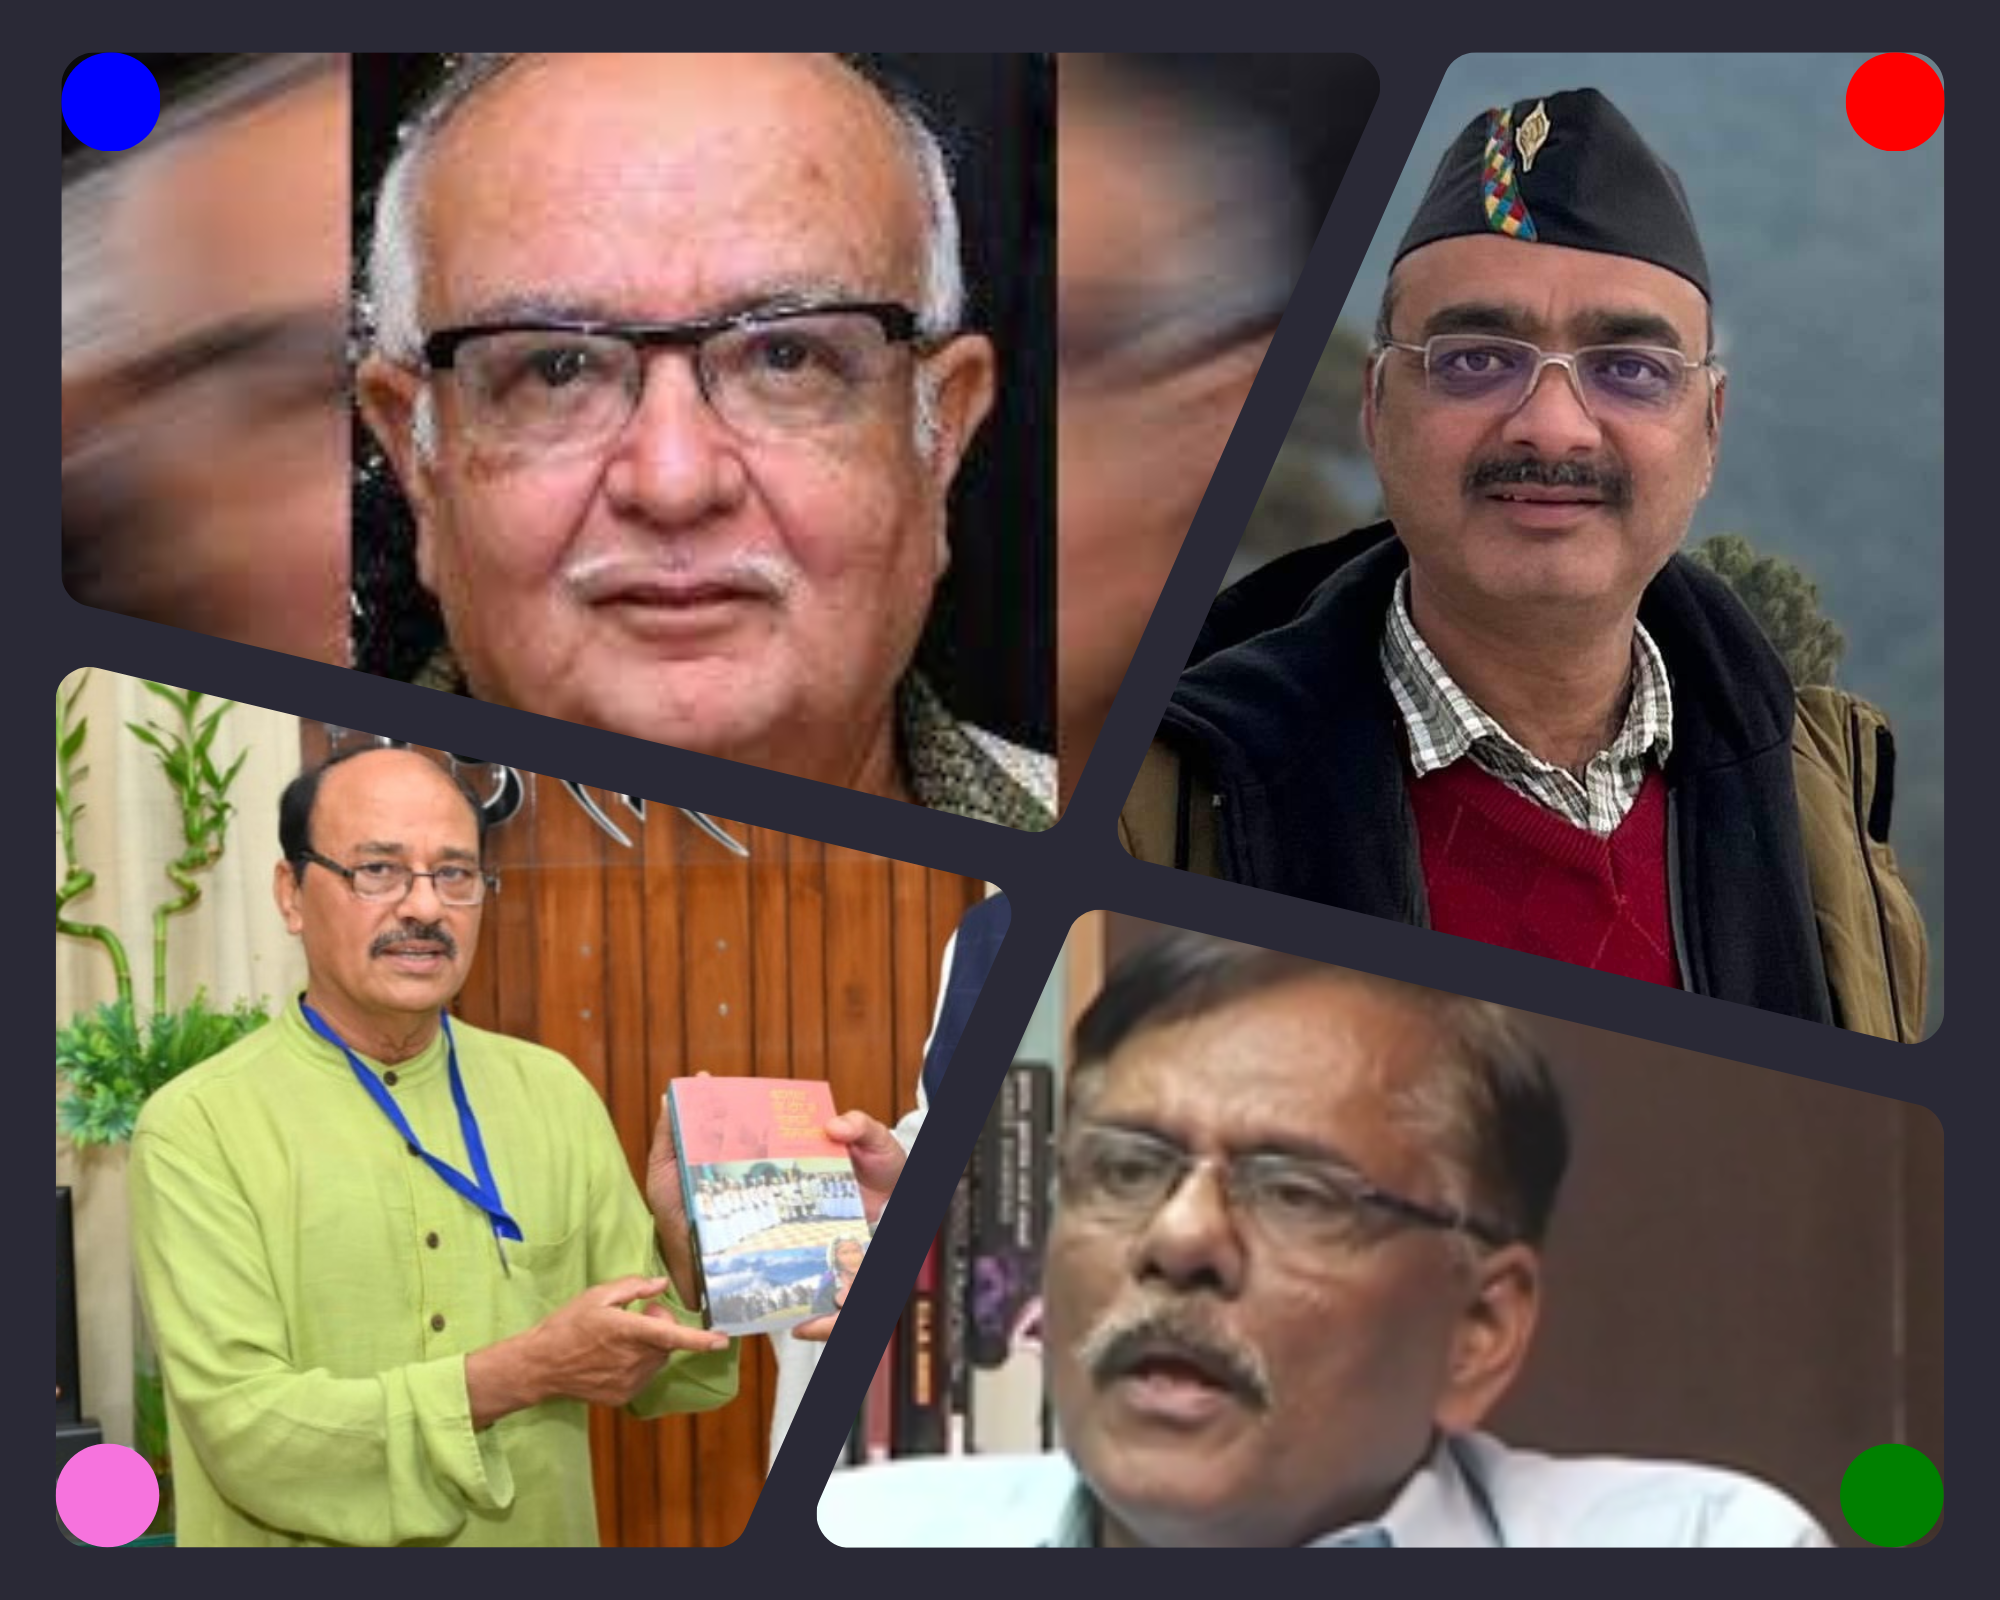
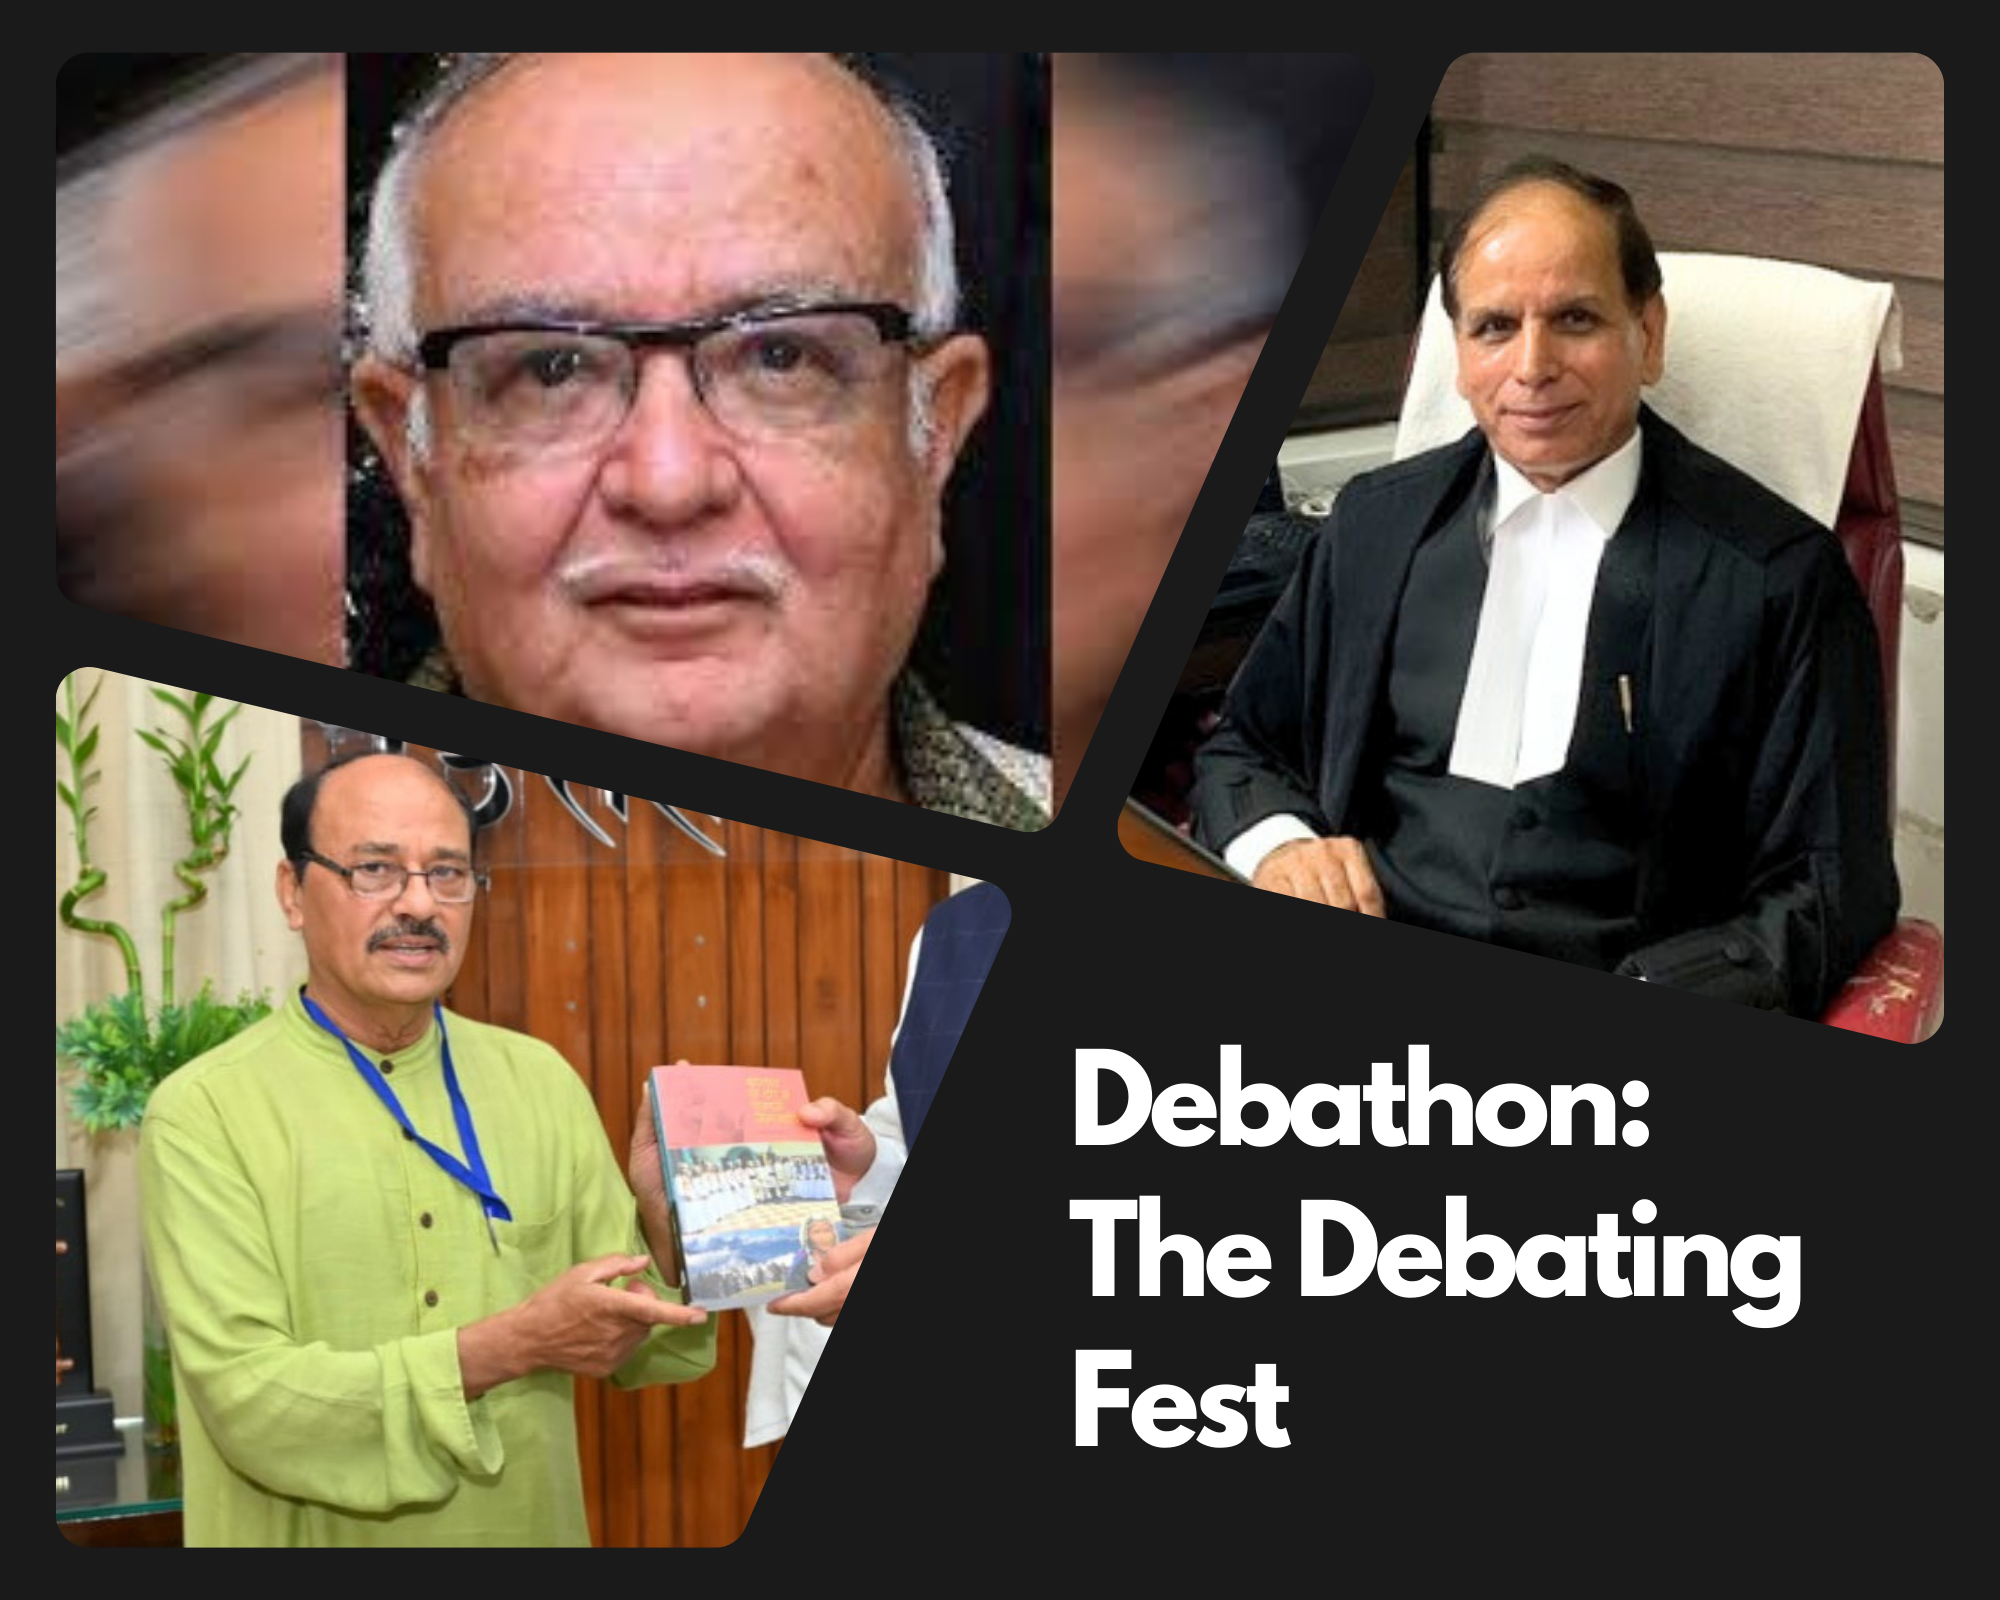
changes made

diff --git a/index.html b/index.html
@@ -440,7 +440,7 @@ https://templatemo.com/tm-575-leadership-event
                                 aria-labelledby="nav-DayOne-tab" >
                                 <div class="row border-bottom pb-5 mb-5">
                                     <div class="col-lg-4 col-12">
-                                        <img src="images/ns.png"
+                                        <img src="images/gs.jpeg"
                                             class="schedule-image img-fluid" alt="">
                                     </div>
 
@@ -448,9 +448,7 @@ https://templatemo.com/tm-575-leadership-event
 
                                         <h4 class="mb-2">Beyond the Bookshelf</h4>
 
-                                        <p>Dive into literary discourse with Sahitya Academy Awardee NASIRA SHARMA. Unmask narratives, dissect plots, and celebrate
-                                            the art of storytelling at our book discussion event. Join the conversation,
-                                            where every page holds a universe of ideas waiting to be explored.</p>
+                                        <p>Embark on a captivating journey through the realm of literature with the esteemed journalist and author, <b>Mrs. Geeta Shree</b> at our book discussion event, "Beyond the Bookshelf". Unveil the layers of narratives, celebrate the art of storytelling and immerse yourself in a riveting conversation, where each page unfolds a universe of ideas waiting to be explored. Join us in celebrating the magic that lies within the pages.</p>
 
                                         <div class="d-flex align-items-center mt-4">
                                             
@@ -507,7 +505,7 @@ https://templatemo.com/tm-575-leadership-event
                                     </div>
 
                                     <div class="col-lg-8 col-12 mt-3 mt-lg-0">
-                                        <h4 class="mb-2">Fast Facts Frenzy (KBC Theme)</h4>
+                                        <h4 class="mb-2">Fast Facts Frenzy (KBC Theme - Carsh Prize Rs.5000)</h4>
 
                                         <p>Experience your adrenaline boost through the roof as our anchors present
                                             rapid-fire questions. Only the quickest and most astute participants will
@@ -549,9 +547,9 @@ https://templatemo.com/tm-575-leadership-event
                                             exchange!.
                                         <br>Re-thinking identities and Re-defining growth and development. A Debate on land laws in Uttarakhand.
                                         <br>- <b style="color: blue;">Mr. Indu Kumar Pandey</b>, Former Chief Secretary of Uttarakhand and esteemed ex-IAS officer. <br>
-                                        - <b style="color: green;">Mr. Vibhuti Narain Rai</b>, Former DGP of Uttar Pradesh and distinguished ex-IPS officer. <br>
+                                        - <b style="color: red;">Mr. B P Nautiyal</b>, Senior Advocate of Uttarakhand High Court. <br>
                                         - <b style="color: magenta;">Mr. Jay Singh Rawat</b>, a seasoned journalist with over 40 years of experience. <br>
-                                        - <b style="color: red;">Mr. Ajay Dhoundiyal</b>, an accomplished journalist with over 20 years of experience in print media. <br>
+                                       
                                     </p>
 
                                         <div class="d-flex align-items-center mt-4">
@@ -667,7 +665,7 @@ https://templatemo.com/tm-575-leadership-event
 
                    
 
-                    <div class="col-lg-4 col-md-6 col-12 mb-5 mb-lg-0">
+                    <!-- <div class="col-lg-4 col-md-6 col-12 mb-5 mb-lg-0">
                         <div class="pricing-thumb bg-white shadow-lg">
                             <div class="pricing-title-wrap d-flex align-items-center">
 
@@ -710,14 +708,14 @@ https://templatemo.com/tm-575-leadership-event
                                 </div>
                             </div>
                         </div>
-                    </div>
+                    </div> -->
                     <div class="col-lg-4 col-md-6 col-12 mb-5 mb-lg-0">
                         <div class="pricing-thumb bg-white shadow-lg">
                             <div class="pricing-title-wrap d-flex align-items-center">
 
-                                <h4 class="pricing-title text-white mb-0">Platinum</h4>
+                                <h4 class="pricing-title text-white mb-0">Buy Tickets</h4>
 
-                                <h5 class="pricing-small-title text-white mb-0 ms-auto">Rs.500</h5>
+                                <h5 class="pricing-small-title text-white mb-0 ms-auto">Rs.200</h5>
                             </div>
 
                             <div class="pricing-body">
@@ -726,7 +724,7 @@ https://templatemo.com/tm-575-leadership-event
                                 </p>
 
                                 <p>
-                                    <i class="bi bi-inbox me-2"></i> Lunch Buffet + Tea - 2 Days
+                                    <i class="bi bi-inbox me-2"></i> High - Tea - 2 Days
                                 </p>
 
                                 <p>
@@ -868,7 +866,7 @@ https://templatemo.com/tm-575-leadership-event
                         <li><a href="https://www.instagram.com/debsoc_geu?igsh=MWw1eDl2cXZiejV3Mw=="
                                 class="social-icon-link bi-instagram"></a></li>
 
-                        <li><a href="#" class="social-icon-link bi-whatsapp"></a></li>
+                        
                         <li><a href="https://chat.whatsapp.com/CpaRhTZEEDL4eAcWfrlfL4" class="social-icon-link bi-whatsapp"></a></li>
 
                         
